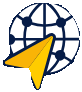
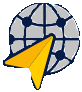
лоадер

diff --git a/public/css/style.css b/public/css/style.css
@@ -22,7 +22,7 @@ body {
   right: 0;
   bottom: 0;
   z-index: 9999;
-  background-color: #fff;
+background-color: rgba(6, 28, 71, 1);
 }
 
 
@@ -30,13 +30,14 @@ body {
 .loaders-progress {
   margin-top:10px;
   font-size: 20px;
+  color:#fff
 }
 
 .loaders-globe {
-  width: 80px;
-  height: 80px;
+  width: 100px;
+  height: 100px;
   border-radius: 50%;
-  background-image: url(../image/g2.png);
+  background-image: url(../image/globuz.png);
   background-position: center;
   background-repeat: no-repeat;
   background-size: cover;
